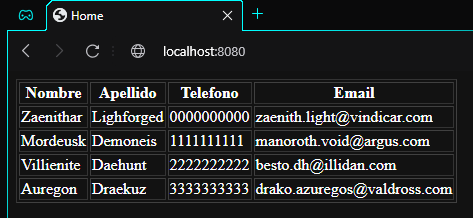
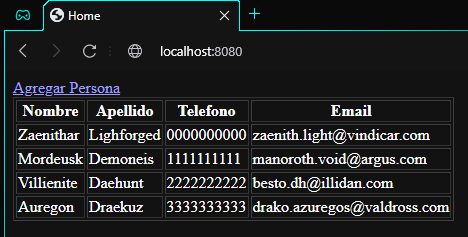
Agregar personas mediante formulario con thymeleaf

diff --git a/Hola-Spring/src/main/resources/templates/modificar.html b/Hola-Spring/src/main/resources/templates/modificar.html
@@ -1,0 +1,23 @@
+<!DOCTYPE html>
+<html lang="en" xmlns:th="http://www.thymeleaf.org">
+<head>
+    <meta charset="UTF-8">
+    <title>Datos de la persona</title>
+</head>
+<body>
+    <h1>Datos de la persona</h1>
+    <a th:href="@{/}">Regresar</a>
+    <br><br><br>
+    <form th:action="@{/guardar}" method="POST" th:object="${persona}">
+        <label for="nombre">Nombre:</label>
+        <input type="text" name="nombre" th:field="*{nombre}" /> <br>
+        <label for="apellido">Apellido: </label>
+        <input type="text" name="apellido" th:field="*{apellido}" /> <br>
+        <label for="email">Email: </label>
+        <input type="email" name="email" th:field="*{email}" /> <br>
+        <label for="telefono">Telefono: </label>
+        <input type="tel" name="telefono" th:field="*{telefono}" /> <br>
+        <button type="submit" name="guardar">Guardar</button>
+    </form>
+</body>
+</html>

diff --git a/Hola-Spring/src/main/resources/templates/index.html b/Hola-Spring/src/main/resources/templates/index.html
@@ -5,6 +5,8 @@
     <title>Home</title>
 </head>
 <body>
+<h1>Inicio</h1>
+<a th:href="@{/agregar}">Agregar Persona</a>
     <table border="1">
         <tr>
             <th>Nombre</th>

diff --git a/Hola-Spring/src/main/java/com/courses/je/controller/HomeController.java b/Hola-Spring/src/main/java/com/courses/je/controller/HomeController.java
@@ -7,6 +7,7 @@ import lombok.extern.slf4j.Slf4j;
 import org.springframework.stereotype.Controller;
 import org.springframework.ui.Model;
 import org.springframework.web.bind.annotation.GetMapping;
+import org.springframework.web.bind.annotation.PostMapping;
 
 import java.util.List;
 
@@ -24,4 +25,14 @@ public class HomeController {
         return "index";
     }
 
+    @GetMapping("/agregar")
+    public String agregar(Persona persona) {
+        return "modificar";
+    }
+
+    @PostMapping("/guardar")
+    public String guardar(Persona persona) {
+        personaService.guardarPersona(persona);
+        return "redirect:/";
+    }
 }

diff --git a/Readme.md b/Readme.md
@@ -1,39 +1,67 @@
-# Seccion 5
-## Manejo Transaccional
+# Seccion 6
+## CRUD Agregar
 
-### Capa de Servicio
-- Crearemos una capa de servicio entre la capa de datos y la capa de presentacion
-- Para ello crearemos una interfaz y una implementacion para `Persona`
-- En nuestra interfaz `PersonaService` agregaremos los metodos que queramos implementar mas delante
-- De momento vamos a agregar los siguientes:
-- `listarPersonas`, que devuelve una lista de personas
-- `guardarPersona`, que recibe un objetod e tipo persona y lo guarda en la abse de datos
-- `eliminarPersona`, que recibe la persona a eliminar
-- `encontrarPersona`, que sirve para encontrar una persona en especifico
-- Ahora se requiere de la implementaciond e esta interfaz en nuestra clase de servicio `PersonaServiceImpl`
-
-### Implementacion
-- Ahora basta con llamar desde nuestra capa de servicio `PersonaServiceImpl` a nuestro repositorio con los metodo rpedefinidos por jpa
-- En el caso de `findAll`, hay que castear el return a un tipo `List...` ya que originalmente retorna un `Iterable...`
-- En el caso de `findById`, dado que retorna un `optional` hay agregar alguna otra accion por si no lo encuentra, en este caso `null`
-- Para `save` y `delete` se puede hacer la llamada directa sin ningun problema
-
-### Transacciones - Spring Transactional
-- Cuando estamos en la capa de datos, se maneja el concepto de `Transacciones`
-- Cualquier operacion que se haga en la base de datos:
-  - En caso de fallar, se ejecuta un `rollback`
-  - En caso de ser exitoso, se hace un `commit`
-- Dado que un mismo servicio puede manejar varias llamadas a varias clases DAO, es necesario anotar los metodos como `@Transactional`
-- Existen diferentes tipos de transaccion segun la operacion que estamos realizando
-
-### Tipos de Transacciones
-- `@Transactional(readOnly = true)` para `findAll` y `findById` ya que solo leen de la base de datos
-- `@Transactional` para `save` y `delete` dado que modificara la base de datos y es necesario hacer `commit` o `rollback`
-
-### Controlador
-- En el controlador se injecta la capa de servicio con el nombre de la interfaz `PersonaService` y no el de la implementacion `PersonaServiceImpl`
-- **Spring en el controlador va a buscar el tipo del servicio (que es la interface `PersonaService`) y por otro una instancia de la implementacion de esa interface que sea marcado con la anotacion `@Service` (`PersonaServiceImpl`)**
-- Esto permite cambiar la implementacion sin cambiar el codigo del controlador dado que esta apuntando a la interface y no a la implementacion directamente
-- En la siguiente leccion,s e implementara el resto de operacion, aunque de momento, ya podemos ver la lista de personas en la base de datos 
+### Vista (index.html)
+- Comenzamos por agregar `<a th:href="@{/agregar}">Agregar Persona</a>`
+  - `<a...>Agregar Persona</a>` es la etiqueta utilizada para links
+  - `th:href=""` el componente de thymeleaf para la referencia del link
+  - `@{/agrega}` el path del controlador que maneja esa operacion
+- Podemos observar que ya se encuentra la opcion en nuestra pagina
 
 ![img.png](img.png)
+
+### Controlador - /agregar
+- Se debe agregar el path de `/agregar` al controlador de tipo GET
+- Podemos crear la persona en el metodo o tambien pedirle a spring que lo genere
+- Para generarlo, solo agregamos un nuevo argumento de tipo `Persona` en el metodo de agregar
+- Al generar este objeto con `spring factory`, ya esta al alcance del objeto `request`
+- Este metodo solo retorna la vista `modificar (modificar.html)` ya que realizara ambas operaciones
+
+### modificar.html
+- Configuramos este nuevo template con el namespace de thymeleaf y agregamos los elementos html que queramos en la pagina
+- Comenzando por un link que nos permita regresar a la pagina de inicio: `<a th:href="@{/}">Inicio</a>`
+- Comprobamos que funcione presionando los links en ambas pagina
+
+![img_1.png](img_1.png)
+
+![img_2.png](img_2.png)
+
+- Ahora agregamos el formulario
+
+### Formulario (modificar.html)
+- Utilizando `th:action="@{/guardar}" method="POST"` definimos el tipo de operacion y el endpoint al que va a llamar
+- El endpoint `/agregar` esta asociado con un objeto de tipo `Persona`. Entonces basta con utilziar `th:object="${persona}"` para referenciar al objeto persona al que esta asociado el endpoint
+- Agregamos los inputs para cada campo
+  - Utilizamos `th:field="*{nombre}"` para asociar cada campo con la propiedad del objeto persona
+- Ahora si inspeccionamos el input en el navegador, podemos observar que la etiqueta ha asociado el nombre con el campo `persona.nombre`. Lo podemos ver mediante el campo `id="nombre"`
+
+![img_3.png](img_3.png)
+
+- Esta asociacion se encarga de hacerla thymelead y spring. El atributo `id` hace referencia a la propiedad del objeto asociado, `persona`" en este caso
+- Finalmente hemos agregado el resto de campos y comprobamos que se hayan referenciado correctamente con cada campo del tipo `Person`a mediante el atributo `id`
+
+![img_4.png](img_4.png)
+
+### Controlador - /guardar
+- Ahora solo falta agregar el endpoint `/guardar` para que el formulario funcione dado que esta referenciado en la vista mas no se ha creado en el controlador
+- en esta ocasion, el formulario es de tipo `post` por lo que utilizaremos `@PostMapping`
+- Agregamos como argumento nuestro objeto de tipo `Persona` que ya contiene toda la informacion que hemos agregado
+- Despues llamamos a nuestro servicio para que ejecute el `save`
+- Por ultimo, retornamos un `redirect:/` para redireccionar a la pagina de inicio
+- Con esto hemos completado el fluejo para agregar personas:
+
+![img_5.png](img_5.png)
+
+- Este registro se agrega a la base de datos, misma de donde se lee para la tabla
+
+![img_7.png](img_7.png)
+
+![img_6.png](img_6.png)
+
+
+### Extras
+- El Id autogenerado de la tabla `Persona` puede saltarse i.e 1 -> 5 si hubo 3 registros intermedios que se eleiminaron
+- Con `ALTER TABLE persona AUTO_INCREMENT = 1`, seteamos el valor inicial del id siguiente registro en 1
+  - Si este ya se encuentra ocupado, seguira buscando hasta encontrar el siguiente numero disponible
+  - Por lo que nuestro registro numero 6, ahora tendra el id 2 
+
